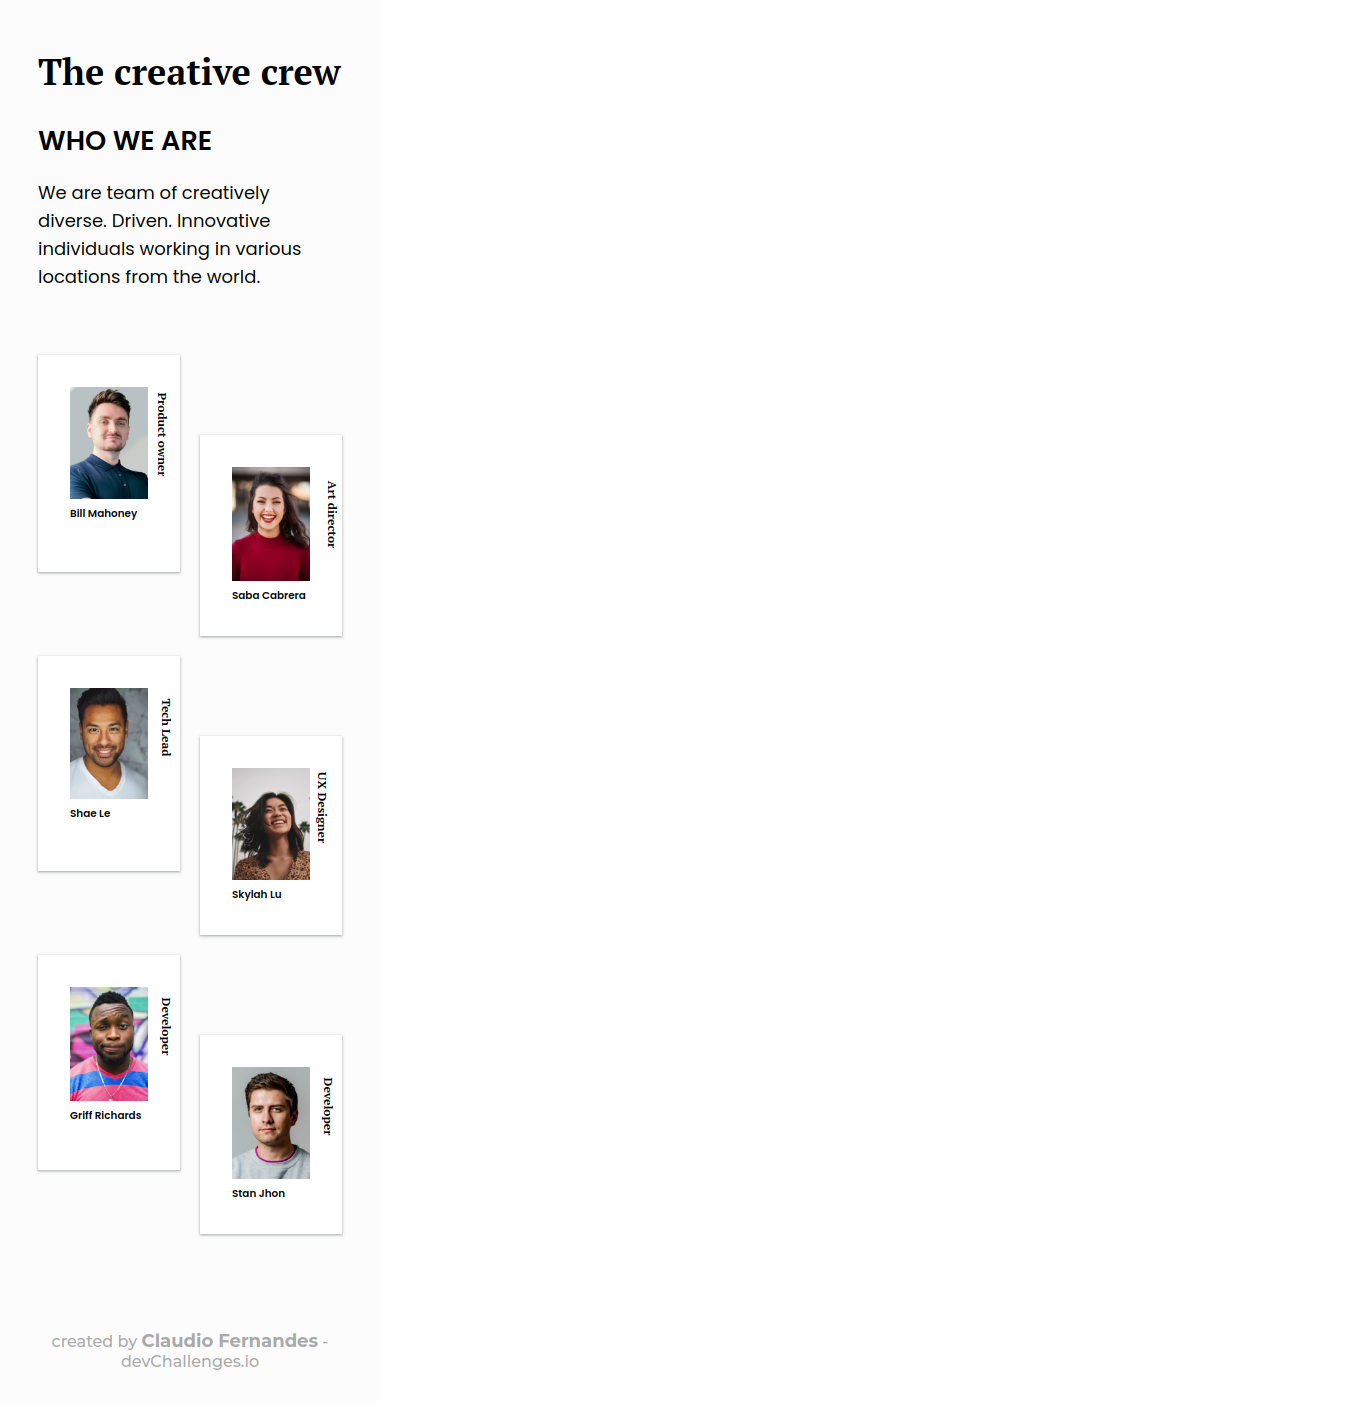
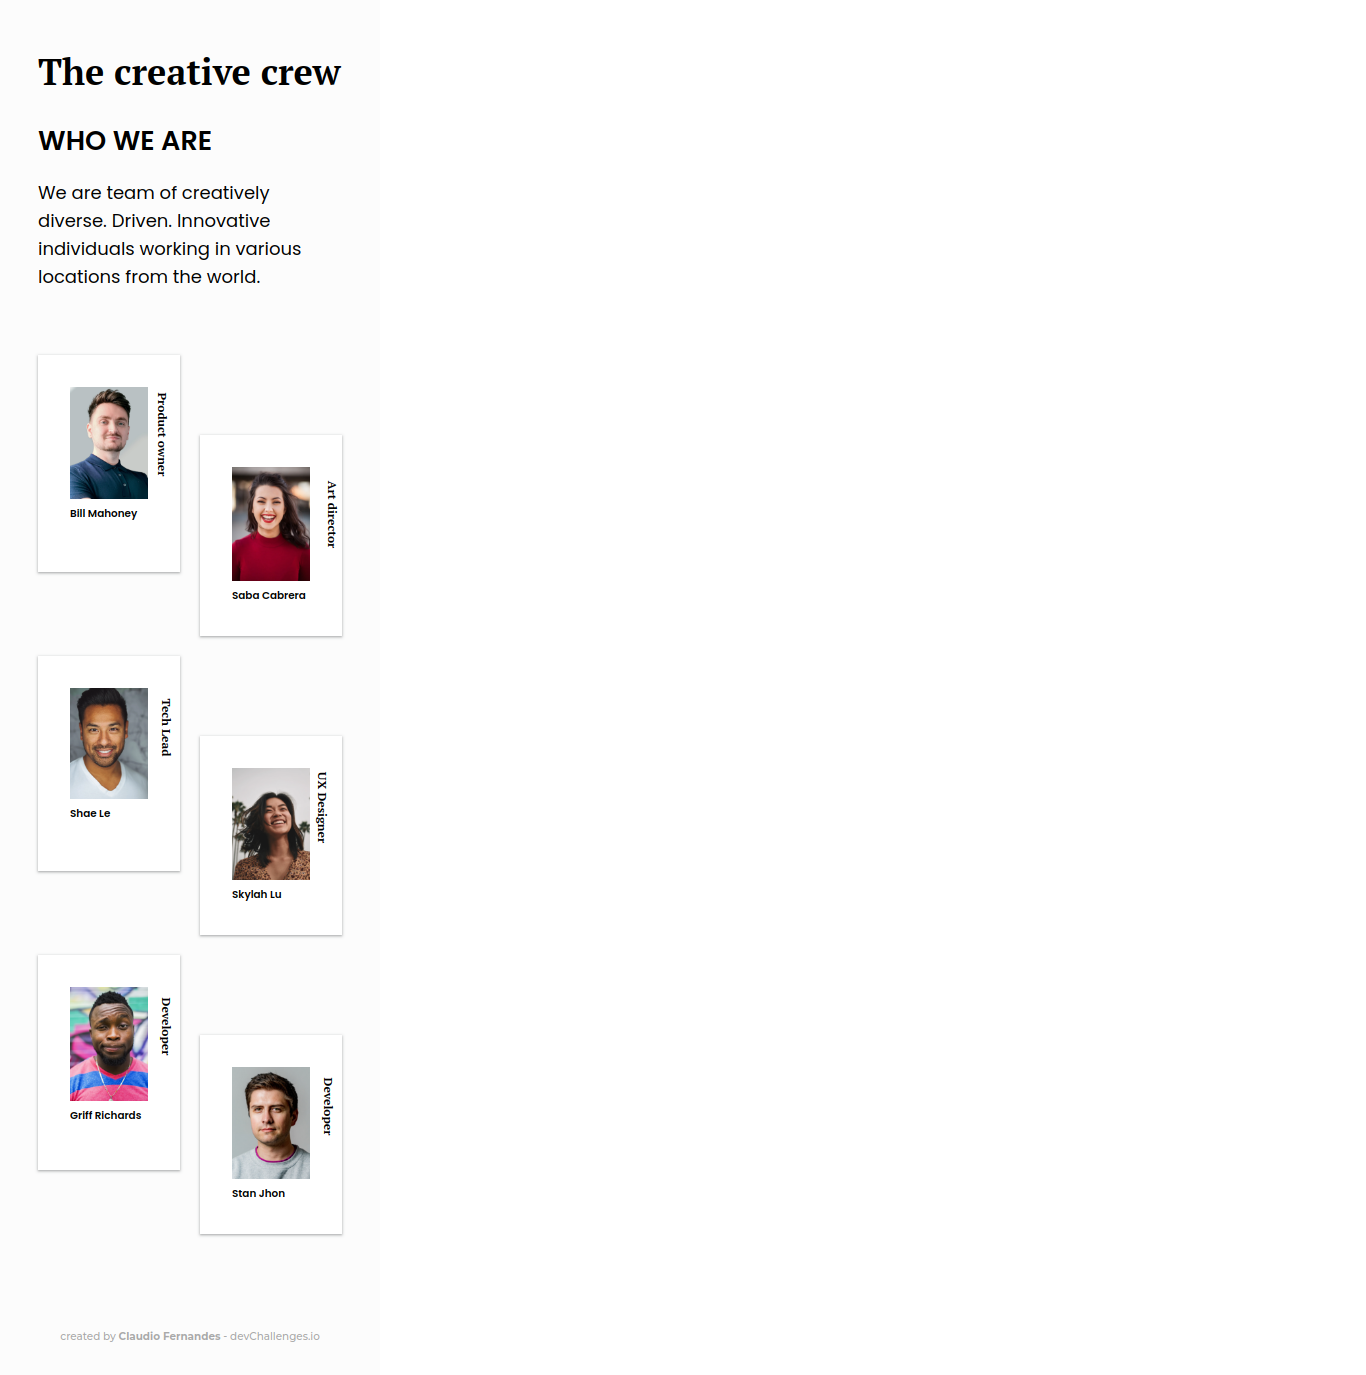
feat: readme update

diff --git a/assets/css/style.css b/assets/css/style.css
@@ -187,4 +187,9 @@ footer p span a {
         width: 100%;
         font-size: 0.65rem;
     }
+
+	footer p,
+	footer span a {
+		font-size: 0.65rem;
+	}
 }

diff --git a/README.md b/README.md
@@ -36,8 +36,8 @@
 
 ## Overview
 
-![screenshot](./images/desktop-solucion.png)
-![screenshot](./images/mobile-solucion.png)
+![screenshot](./images/desktop-solution.png)
+![screenshot](./images/mobile-solution.png)
 
 Introduce your projects by taking a screenshot or a gif. Try to tell visitors a story about your project by answering:
 
